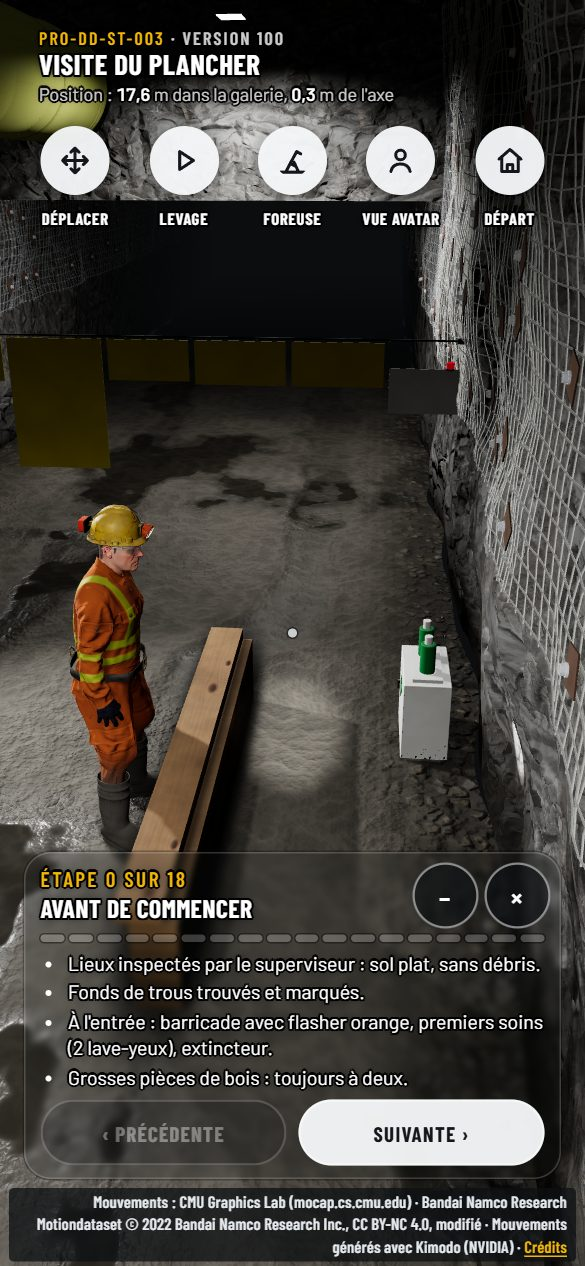
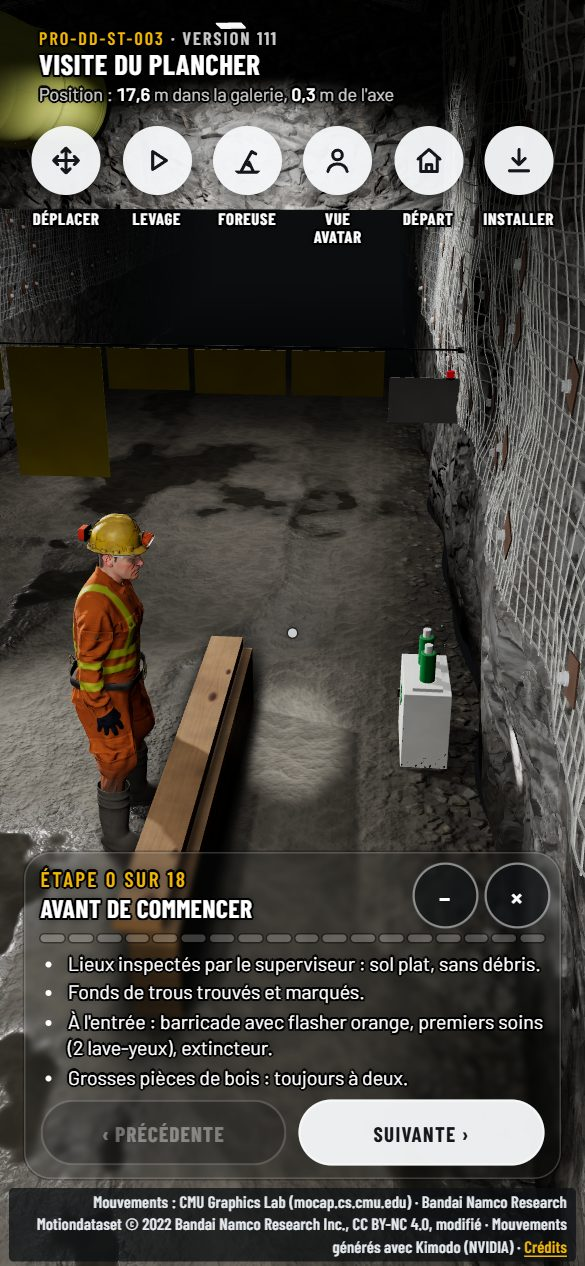
Met la fiche Visite du plancher à jour (1.19.0)
La fiche suit la version 111 de l'application, mise en ligne le
18 novembre 2026 : deux lignes de contenu relevées dans l'application
(coupe du plancher secondaire à la scie va-et-vient, vue accroupie ou
penchée) et trois captures refaites dans l'application en marche.

Vérifié : tsc, oxlint, 14 tests, construction et validation de l'export,
onze largeurs de 320 à 1920 px avec les deux types de pointeur.

diff --git a/lib/catalogue.ts b/lib/catalogue.ts
@@ -198,6 +198,8 @@ collection: 'forage',
       'Marche libre dans la galerie, en première personne ou en vue avatar',
       'La foreuse en place sur le plancher',
       'Le coffre à outils, sa liste de matériel et ses pièces vues en détail',
+      'La coupe du plancher secondaire à la scie va-et-vient, pour qu’il épouse la foreuse',
+      'S’accroupir et se pencher, pour voir les pièces de près',
       'Le mode Déplacer, pour replacer les équipements',
     ],
     captures: 3,

diff --git a/app/store-shell.tsx b/app/store-shell.tsx
@@ -98,7 +98,7 @@ export function StoreShell({
         <footer className="pied">
           <ServiceWorker />
           <p>
-            Portail SST 1.18 · {APPLICATIONS.length} applications.{' '}
+            Portail SST 1.19 · {APPLICATIONS.length} applications.{' '}
             <a href={DEPOT_PORTAIL} target="_blank" rel="noopener noreferrer">
               Le code source du portail
               <ArrowUpRight size={15} aria-hidden="true" />

diff --git a/README.md b/README.md
@@ -206,6 +206,17 @@ Avant de déployer, relever la release :
 node scripts/relever-apk.mjs      # écrit version, taille et date dans lib/telechargement.ts
 ```
 
+## Version 1.19.0
+
+- **Visite du plancher** : la fiche suit la version 111 de l'application,
+  mise en ligne le 18 novembre 2026. Deux lignes s'ajoutent à « ce que ça
+  contient », relevées dans l'application : la coupe du plancher secondaire à
+  la scie va-et-vient, et la vue accroupie ou penchée pour voir les pièces de
+  près.
+- Les trois captures sont refaites dans l'application en marche : la foreuse
+  y a sa peinture usée, ses patins et son clamp noirs, et sa tige derrière la
+  tête.
+
 ## Version 1.18.0
 
 - **Visite du plancher** entre au catalogue, dans « Forage & procédures » :
